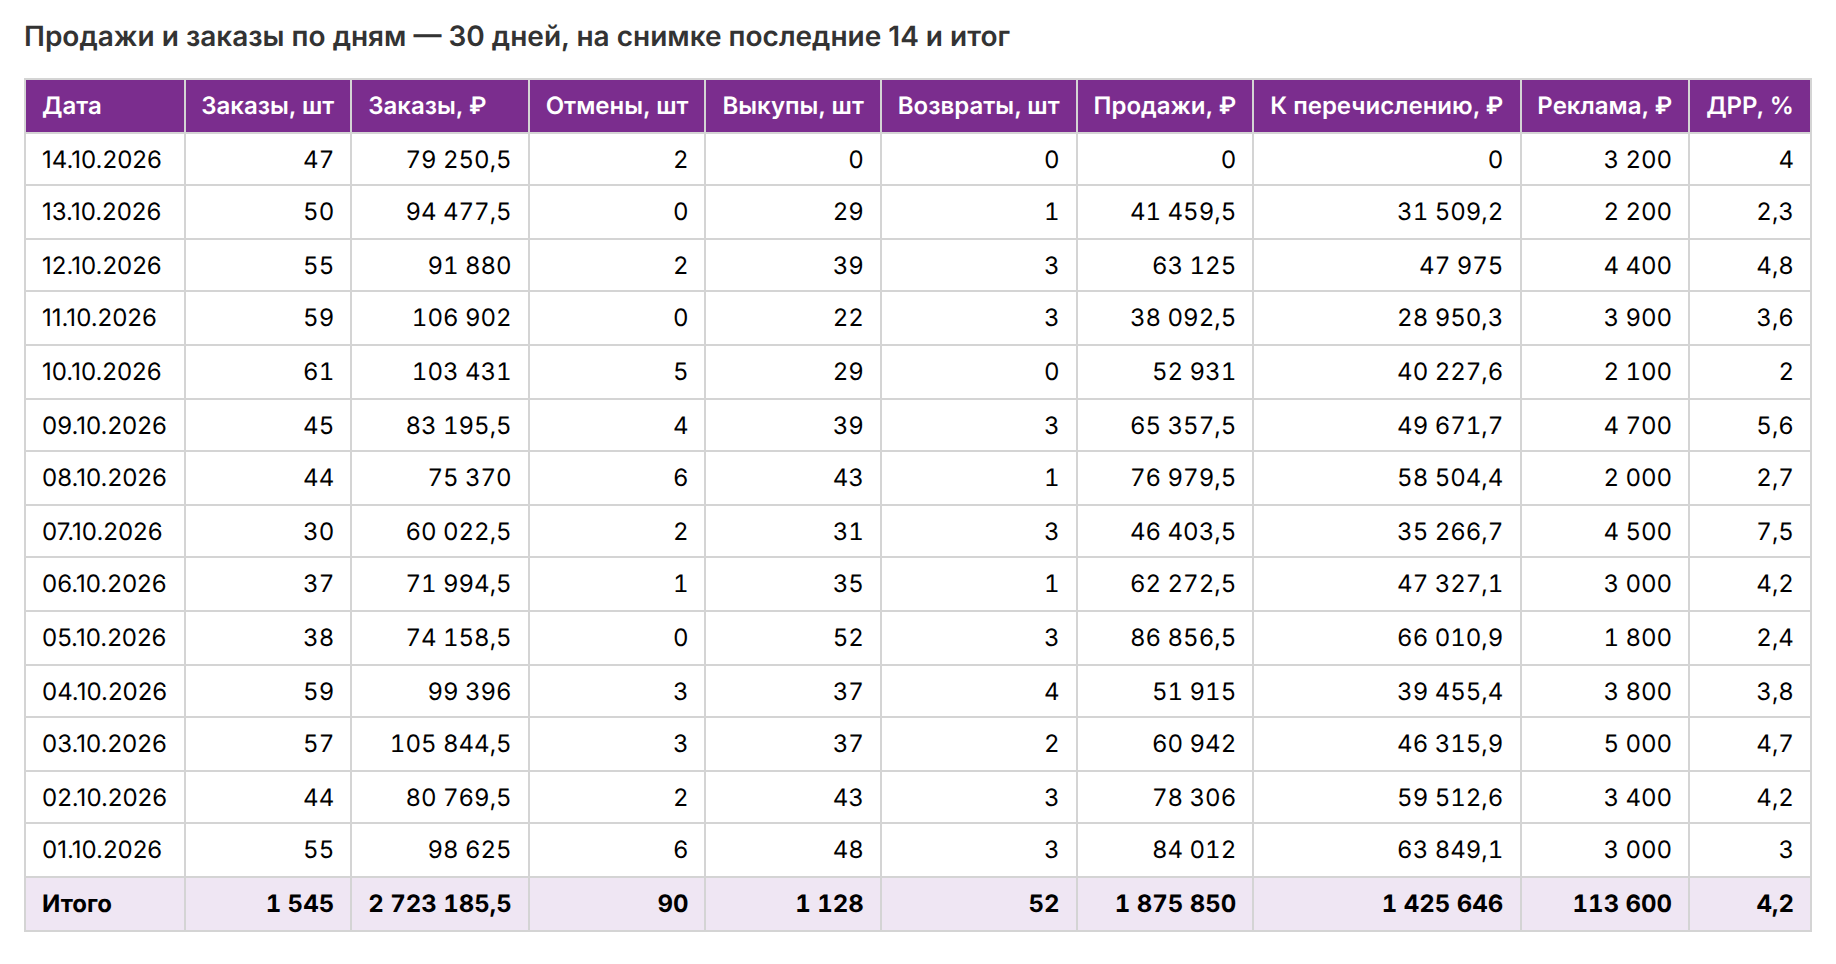
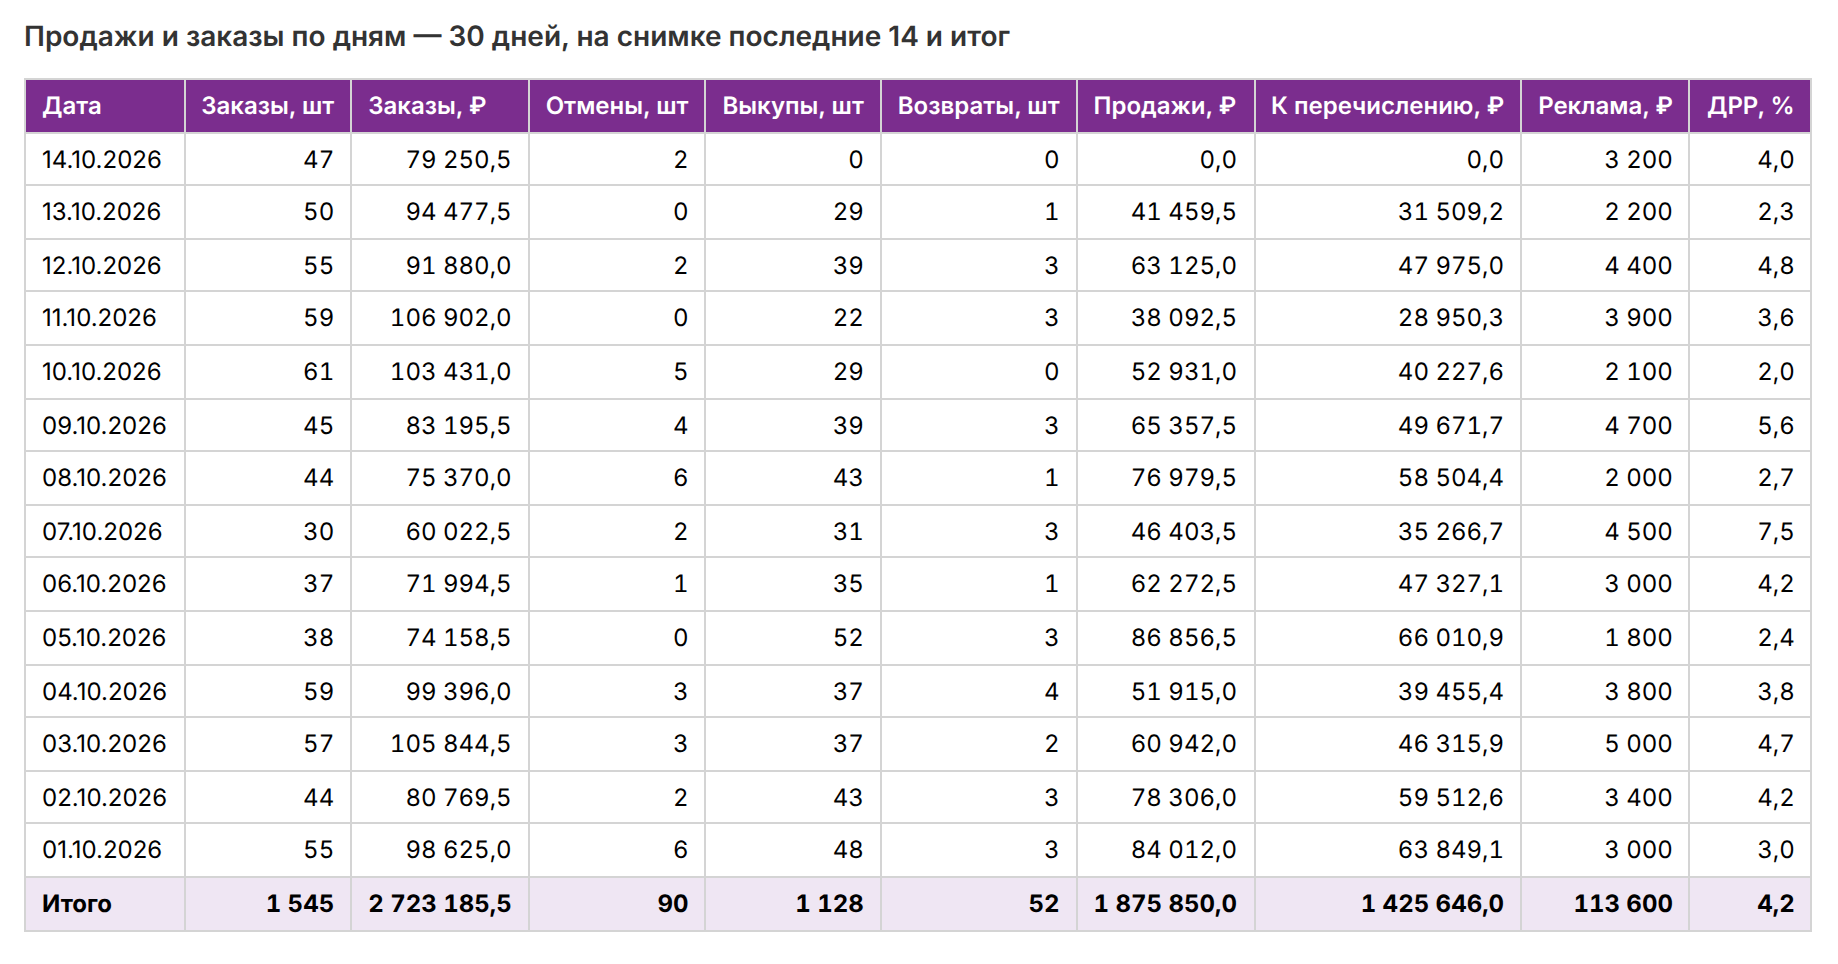
docs(screens): добавить снимки листов Ozon «Продажи и заказы» и «Реклама»
Просьба freelance перед открытием репозитория: два снимка Ozon рядом с WB,
из выдуманного магазина (как --demo), без живых данных.
- tools/render.py: строит и отчёт Ozon с рекламой на тех же местных серверах,
  что --demo; в столбце с дробями все числа с одним знаком, настоящий минус
  (на снимке «2» стояло рядом с «2,2», дефис отрывался от цифр) — поэтому
  перерисованы и снимки WB 1 и 2;
- README и docs/portfolio.md: снимки Ozon, в портфолио — список всех пяти.

diff --git a/tools/render.py b/tools/render.py
@@ -1,8 +1,9 @@
 """Рисует снимки листов для README из настоящего отчёта.
 
 .venv/bin/python tools/render.py   # HTML → build/screens/, снимки — tools/shoot.py
-Отчёт строится тем же кодом, что и в работе, на выдуманном магазине за 30 дней
-до 14.10.2026; цвета ячеек берутся из Excel (шапка, итог, подсветка остатков).
+Отчёты WB и Ozon строятся тем же кодом, что и в работе (как --demo), на
+выдуманном магазине за 30 дней до 14.10.2026; цвета ячеек берутся из Excel
+(шапка, итог, подсветка остатков).
 """
 
 from __future__ import annotations
@@ -20,8 +21,9 @@ ROOT = Path(__file__).resolve().parent.parent
 sys.path.insert(0, str(ROOT))
 
 from wbreport import __main__ as app  # noqa: E402
-from wbreport import config, fake  # noqa: E402
+from wbreport import config, fake, ozon_fake  # noqa: E402
 from wbreport.api import WBClient  # noqa: E402
+from wbreport.ozon_api import OzonAdsClient, OzonClient  # noqa: E402
 
 OUT = ROOT / "build" / "screens"
 TODAY = date(2026, 10, 14)
@@ -39,18 +41,19 @@ tr.total td { font-weight: 700; }
 """
 
 
-ID_COLS = {"ID", "Артикул WB"}  # номера, а не суммы — без пробелов между разрядами
+ID_COLS = {"ID", "Артикул WB", "SKU Ozon"}  # номера, а не суммы — без пробелов между разрядами
 
 
-def fmt(v, is_id: bool = False) -> str:
+def fmt(v, is_id: bool = False, decimal: bool = False) -> str:
+    """decimal — в столбце есть дроби: все числа с одним знаком, чтобы «2» не стояло рядом с «2,2»."""
     if v is None:
         return ""
     if is_id:
         return str(v)
-    if isinstance(v, float) and not v.is_integer():
-        return f"{v:,.1f}".replace(",", " ").replace(".", ",")
     if isinstance(v, int | float):
-        return f"{int(v):,}".replace(",", " ")
+        text = f"{abs(v):,.1f}" if decimal else f"{round(abs(v)):,}"
+        sign = "−" if round(v, 1 if decimal else 0) < 0 else ""  # настоящий минус: дефис отрывается от цифр
+        return sign + text.replace(",", " ").replace(".", ",")
     return str(v)
 
 
@@ -59,6 +62,12 @@ def render_sheet(path: Path, title: str, caption: str, rows: int = 100) -> str:
     data = list(ws.iter_rows())
     picked = [data[0], *data[1:-1][:rows], data[-1]] if len(data) - 2 > rows else data
     ids = {j for j, c in enumerate(data[0]) if c.value in ID_COLS}
+    decimal = {
+        j
+        for row in data[1:]
+        for j, c in enumerate(row)
+        if isinstance(c.value, float) and not c.value.is_integer()
+    }
     out = []
     for i, row in enumerate(picked):
         tag = "th" if i == 0 else "td"
@@ -68,7 +77,7 @@ def render_sheet(path: Path, title: str, caption: str, rows: int = 100) -> str:
             color = c.fill.fgColor.rgb if c.fill.patternType == "solid" else None
             style = f' style="background:#{color[-6:]}"' if color else ""
             cls = ' class="num"' if tag == "td" and isinstance(c.value, int | float) else ""
-            cells.append(f"<{tag}{cls}{style}>{escape(fmt(c.value, j in ids))}</{tag}>")
+            cells.append(f"<{tag}{cls}{style}>{escape(fmt(c.value, j in ids, j in decimal))}</{tag}>")
         out.append(f"<tr{' class=total' if is_total else ''}>" + "".join(cells) + "</tr>")
     return (
         f"<!doctype html><meta charset=utf-8><style>{CSS}</style>"
@@ -76,7 +85,7 @@ def render_sheet(path: Path, title: str, caption: str, rows: int = 100) -> str:
     )
 
 
-def main() -> None:
+def wb_xlsx() -> Path:
     xlsx = Path(tempfile.mkdtemp()) / "wb_report.xlsx"
     with fake.FakeWB(fake.generate(TODAY)) as srv:
         cfg = replace(
@@ -98,17 +107,49 @@ def main() -> None:
             sleep=lambda s: None,
         )
         app.run_once(cfg, client, today=TODAY)
+    return xlsx
+
+
+def ozon_xlsx() -> Path:
+    """Ozon с рекламой — те же выдуманные магазин и кампании, что в --market ozon --demo."""
+    xlsx = Path(tempfile.mkdtemp()) / "ozon_report.xlsx"
+    with (
+        ozon_fake.FakeOzon(ozon_fake.generate(TODAY)) as srv,
+        ozon_fake.FakePerformance(ozon_fake.generate_ads(TODAY)) as perf,
+    ):
+        cfg = replace(config.load(), market="ozon", days=30, excel_path=xlsx, gsheet_id="")
+        client = OzonClient(ozon_fake.CLIENT_ID, ozon_fake.API_KEY, url=srv.url)
+        ads = OzonAdsClient(ozon_fake.ADS_CLIENT_ID, ozon_fake.ADS_SECRET, url=perf.url)
+        app.run_ozon(cfg, client, today=TODAY, ads=ads)
+    return xlsx
+
+
+def main() -> None:
+    wb, ozon = wb_xlsx(), ozon_xlsx()
     OUT.mkdir(parents=True, exist_ok=True)
     pages = {
         "1-prodazhi.html": (
+            wb,
             "Продажи и заказы",
             "Продажи и заказы по дням — 30 дней, на снимке последние 14 и итог",
             14,
         ),
-        "2-ostatki.html": ("Остатки", "Остатки по складам: красным — товара меньше чем на 2 недели", 100),
-        "3-reklama.html": ("Реклама", "Расходы на рекламу по кампаниям за 30 дней", 100),
+        "2-ostatki.html": (wb, "Остатки", "Остатки по складам: красным — товара меньше чем на 2 недели", 100),
+        "3-reklama.html": (wb, "Реклама", "Расходы на рекламу по кампаниям за 30 дней", 100),
+        "4-ozon-prodazhi.html": (
+            ozon,
+            "Продажи и заказы",
+            "Ozon: продажи и заказы по дням с рекламой и ДРР — 30 дней, на снимке последние 14 и итог",
+            14,
+        ),
+        "5-ozon-reklama.html": (
+            ozon,
+            "Реклама",
+            "Ozon: реклама по кампаниям за 30 дней — расход, клики, ДРР",
+            100,
+        ),
     }
-    for name, (title, caption, rows) in pages.items():
+    for name, (xlsx, title, caption, rows) in pages.items():
         (OUT / name).write_text(render_sheet(xlsx, title, caption, rows), "utf-8")
         print(OUT / name)
 

diff --git a/docs/portfolio.md b/docs/portfolio.md
@@ -11,3 +11,11 @@
 Проверено: WB — на выдуманном магазине через сервер, который отвечает как API WB; Ozon, в том числе реклама, — проверено на тестах без подключения к кабинету; Google Таблица — на тестах без подключения. На живых кабинетах демо не запускалось.
 
 Стек: Python, requests, openpyxl, gspread.
+
+Снимки (листы отчёта на выдуманном магазине, папка docs/screens):
+
+- 1-prodazhi.png — WB: продажи и заказы по дням с рекламой и ДРР;
+- 2-ostatki.png — WB: остатки по складам, красным — товара меньше чем на 2 недели;
+- 3-reklama.png — WB: расходы по рекламным кампаниям;
+- 4-ozon-prodazhi.png — Ozon: продажи и заказы по дням, FBO и FBS, начисления, реклама и ДРР;
+- 5-ozon-reklama.png — Ozon: реклама по кампаниям — расход, показы, клики, CTR, заказы с рекламы и ДРР.

diff --git a/README.md b/README.md
@@ -44,8 +44,16 @@
 
 ![Реклама](docs/screens/3-reklama.png)
 
+Ozon — продажи и заказы по дням с расходом на рекламу и ДРР:
+
+![Ozon: продажи и заказы](docs/screens/4-ozon-prodazhi.png)
+
+Ozon — реклама по кампаниям:
+
+![Ozon: реклама](docs/screens/5-ozon-reklama.png)
+
 Снимки — листы настоящего отчёта: тот же код построил его на выдуманном
-магазине, цвета взяты из файла Excel (`tools/render.py`).
+магазине (как `--demo`), цвета взяты из файла Excel (`tools/render.py`).
 
 ## Как запустить
 
